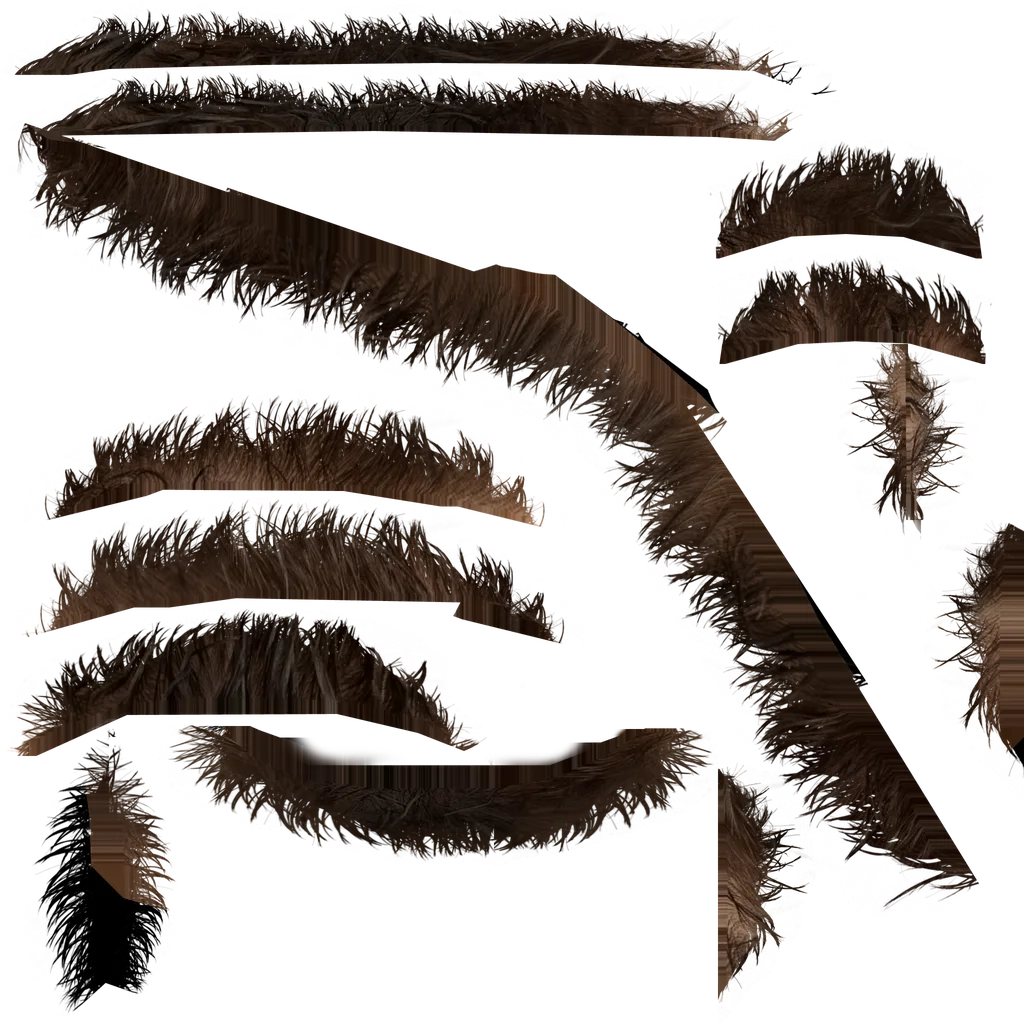
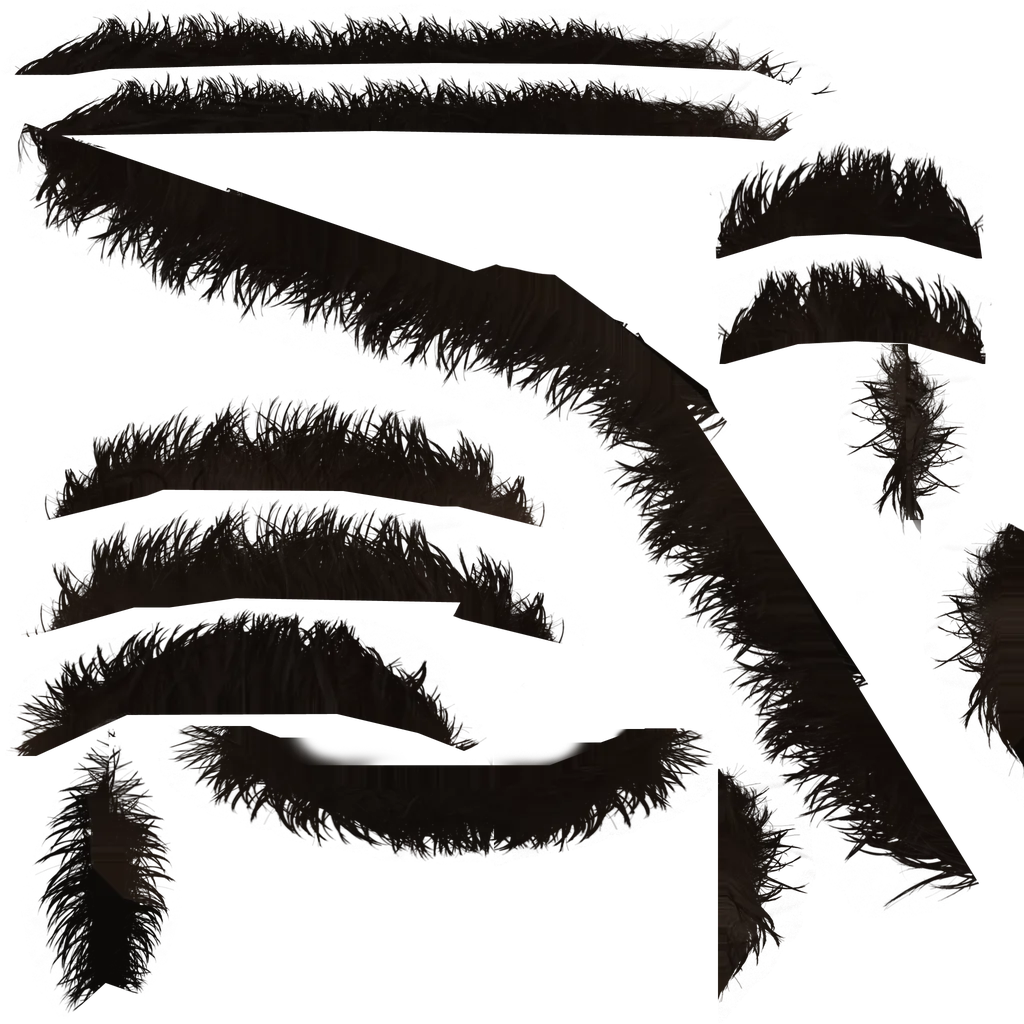
Demo person: black hair, clean-shaven, younger skin (dev/restyle-me.py); dev shot tool skips the cache

diff --git a/site/dev/restyle-me.py b/site/dev/restyle-me.py
@@ -1,0 +1,49 @@
+#!/usr/bin/env python3
+"""Restyles the "me" avatar's textures: near-black hair and a younger, clean-shaven face.
+Reads the untouched textures from dev/textures and writes assets/person/me/{head.jpg,hair.webp}."""
+import os
+import numpy as np
+from PIL import Image, ImageFilter
+
+root = os.path.join(os.path.dirname(os.path.abspath(__file__)), "..")
+src, out = os.path.join(root, "dev/textures"), os.path.join(root, "assets/person/me")
+def blurred(a, radius): return np.asarray(Image.fromarray((np.clip(a, 0, 1) * 255).astype(np.uint8)).filter(ImageFilter.GaussianBlur(radius))).astype(np.float32) / 255
+
+# ---- head map: hair on the scalp, brows; stubble off ----
+head = Image.open(os.path.join(src, "me_head_original.jpg")).convert("RGB")
+rgb = np.asarray(head).astype(np.float32) / 255
+H, W = rgb.shape[:2]
+y, x = np.mgrid[0:H, 0:W] / np.array([H, W])[:, None, None]
+# Hair vs skin by colour: skin is warm and saturated, hair (even buzzed short over skin) is grey-brown and darker.
+r, g, bl = rgb[..., 0], rgb[..., 1], rgb[..., 2]
+value = rgb.max(axis=2)
+warmth = (r - bl) / (value + 1e-3)
+hairness = np.clip((0.34 - warmth) / 0.12, 0, 1) * np.clip((0.92 - value) / 0.3, 0, 1) + np.clip((0.5 - value) / 0.15, 0, 1)
+ears = ((x - 0.255) ** 2 / 0.06 ** 2 + (y - 0.36) ** 2 / 0.08 ** 2 < 1) | ((x - 0.745) ** 2 / 0.06 ** 2 + (y - 0.36) ** 2 / 0.08 ** 2 < 1)
+face = (np.abs(x - 0.5) < 0.13) & (y > 0.13) & (y < 0.6)                          # eyes, nostrils and lips are dark too; leave them
+brows = (y > 0.225) & (y < 0.268) & (np.abs(x - 0.5) < 0.16)
+where = ((y < 0.6) & ~ears & ~face) | brows
+# The fade in front of and above the ears is skin with sparse stubble in the photo. He gets fuller hair there:
+# grown-in dark, fading out toward the face and down past the ear.
+temples = (np.abs(x - 0.5) > 0.13) & (np.abs(x - 0.5) < 0.21) & (y > 0.1) & (y < 0.31) & ~ears      # the strip beside the face oval (checked against the mesh's UVs)
+rng = np.random.default_rng(7)
+strands = blurred(rng.random((H, W)).astype(np.float32), 0.8) ; strands = np.clip((strands - 0.42) / 0.2, 0, 1)   # short hairs, not a wash
+grown = temples * np.clip((np.abs(x - 0.5) - 0.13) / 0.03, 0, 1) * np.clip((0.31 - y) / 0.05, 0, 1) * (0.35 + 0.5 * strands)
+hair = blurred(np.clip(np.maximum(hairness * where, grown), 0, 1), 1.5)
+black = np.array([0.05, 0.04, 0.035]) + rgb * 0.18                            # keeps the strand detail, kills the brown
+rgb = rgb * (1 - hair[..., None]) + black * hair[..., None]
+
+# stubble: the lower face and neck. Smooth the speckle, then lift toward the skin tone.
+soft = blurred(rgb, 3.2)
+lower = np.clip((y - 0.36) / 0.06, 0, 1) * (1 - np.clip((y - 0.72) / 0.08, 0, 1)) * (np.abs(x - 0.5) < 0.3) * (1 - hair)
+skin = soft + np.array([0.06, 0.035, 0.025])                                    # a little warmer and lighter, no shadow of beard
+rgb = rgb * (1 - lower[..., None] * 0.85) + skin * lower[..., None] * 0.85
+face = (y > 0.14) & (y < 0.75) & (np.abs(x - 0.5) < 0.32)                       # a touch smoother everywhere on the face, like young skin
+rgb = np.where(face[..., None], rgb * 0.55 + blurred(rgb, 1.1) * 0.45, rgb)
+Image.fromarray((np.clip(rgb, 0, 1) * 255).astype(np.uint8)).save(os.path.join(out, "head.jpg"), quality=90)
+
+# ---- hair cards ----
+cards = np.asarray(Image.open(os.path.join(src, "me_hair_original.webp")).convert("RGBA")).astype(np.float32) / 255
+cards[..., :3] = np.array([0.05, 0.04, 0.035]) + cards[..., :3] * 0.24
+Image.fromarray((np.clip(cards, 0, 1) * 255).astype(np.uint8)).save(os.path.join(out, "hair.webp"), quality=84)
+print("wrote head.jpg and hair.webp")
